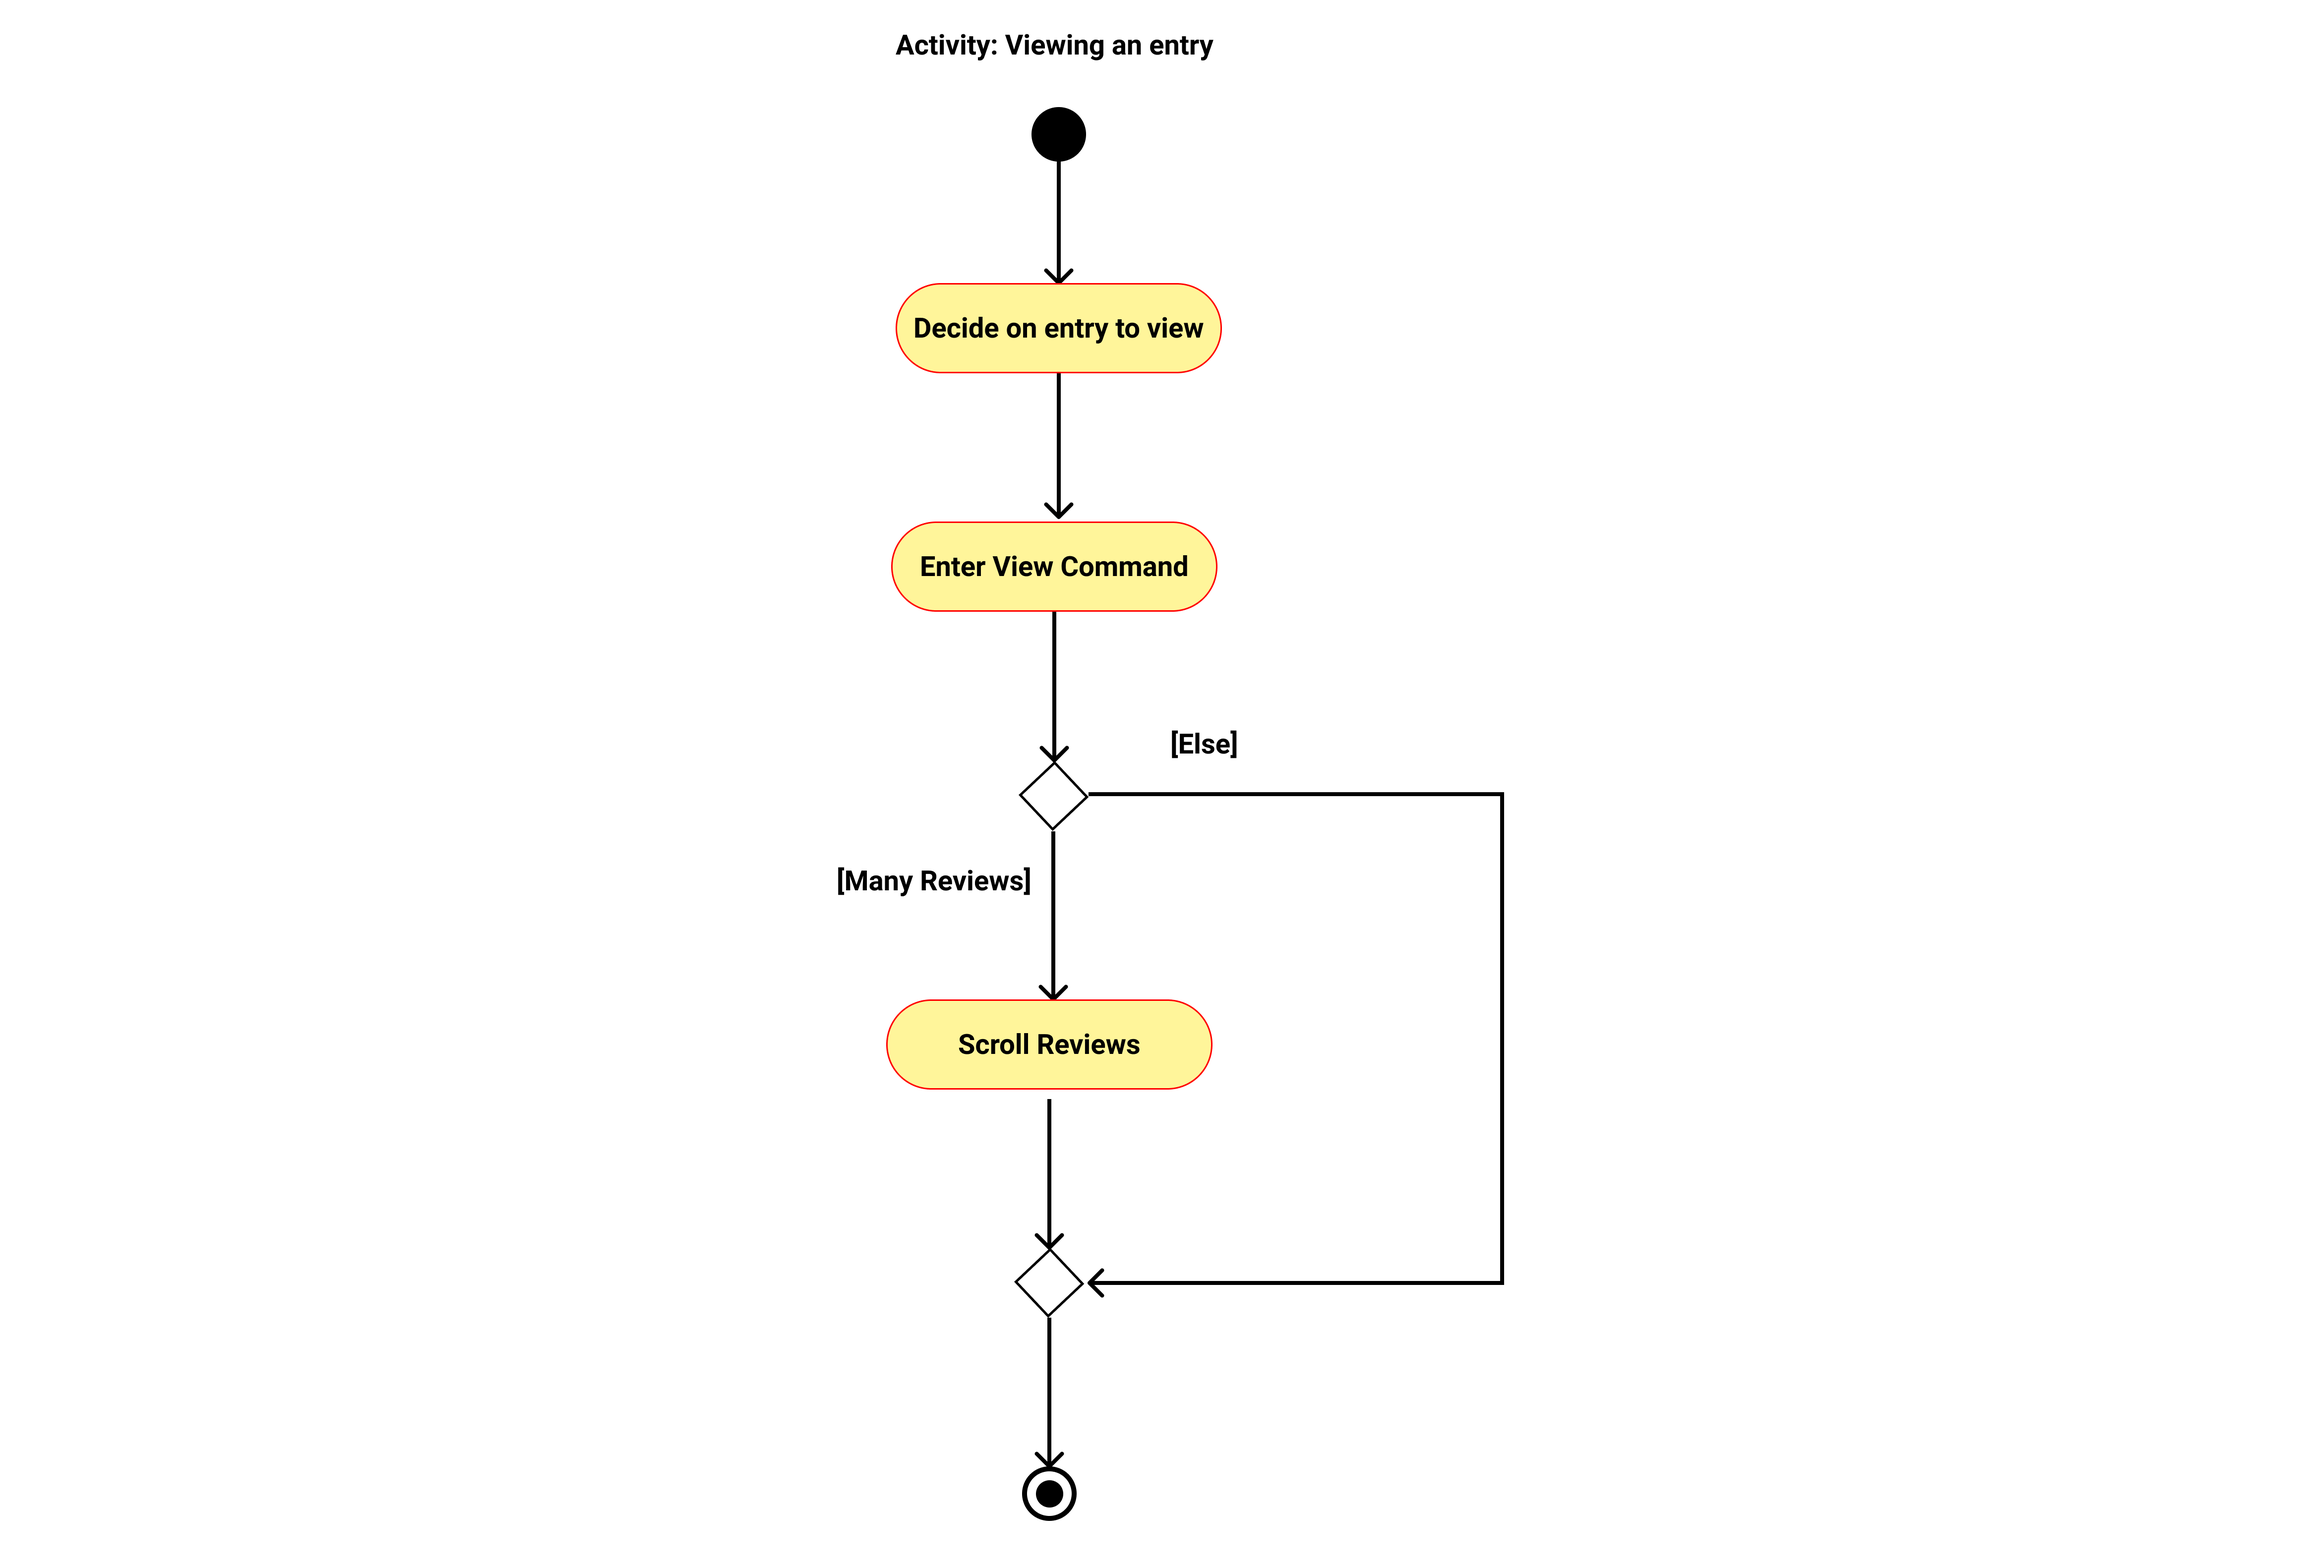
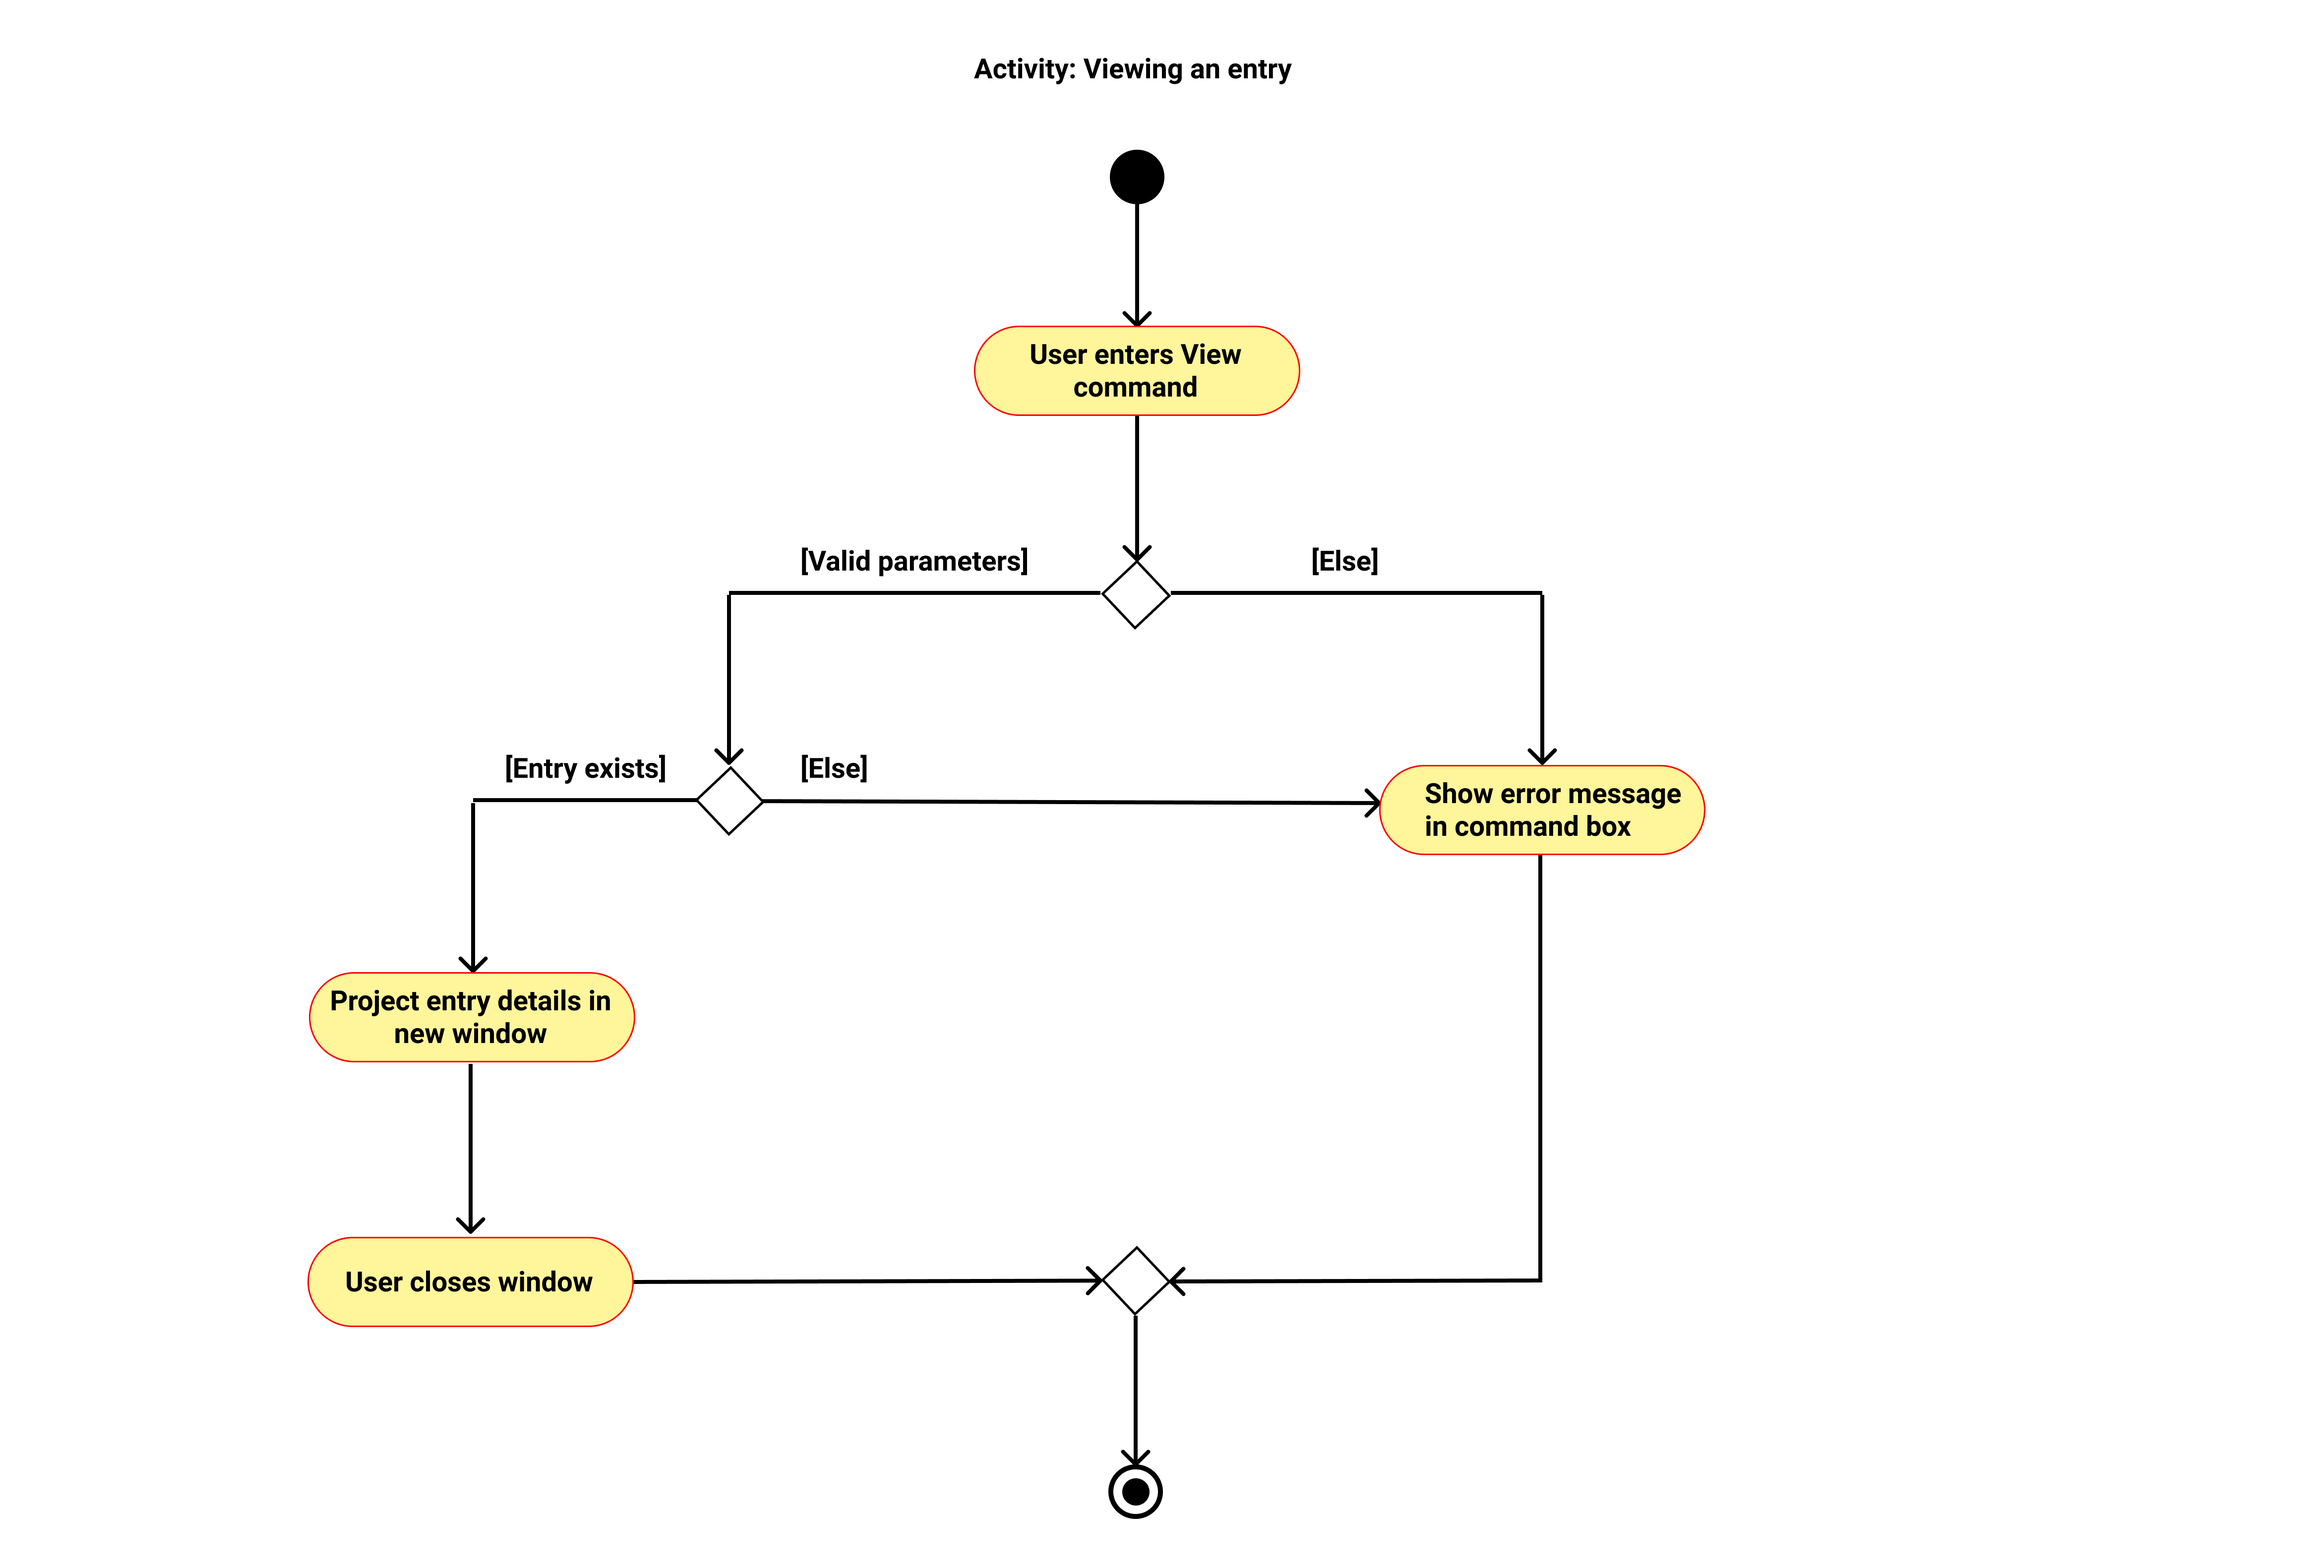
Add Clear use case, edit user stories for view, update view sequence and activity diagram

diff --git a/docs/DeveloperGuide.md b/docs/DeveloperGuide.md
@@ -132,9 +132,17 @@ command:
 
 
 ### View Feature
-#### Implementation
-The View feature allows the user to view a specified entry in a new window, allowing the user to carefully look through
-all the details of an entry.
+View: Allows the user to view a specified entry in a new window, allowing the user to carefully look through
+all the details of an entry. This feature is mainly used to read lengthy food reviews which cannot be shown on the Main UI window. - `view`
+
+The view feature is facilitated by:
+1. `Entry` class. `Entry` objects represent the specific entry to be viewed in a new window.
+2. `Command` class.   
+
+Given below is an example usage scenario:
+
+Step 1. The user launches THe Food Diary application. Data will be loaded from the storage to the application memory. 
+The `FoodDiary` 
 
 The mechanism works in such a way where after the user enters a command in the UI, the command will be passed into
  `MainWindow#executeCommand()`, in which `Logic#execute()` will be called to parse the user input in
@@ -145,7 +153,7 @@ The mechanism works in such a way where after the user enters a command in the U
 The following sequence diagram shows how the View feature works:
 ![View Sequence Diagram](images/ViewSequenceDiagram.png)
 
-The following activity diagram summarizes what happens when a user executes a view command:
+The following activity diagram summarizes what happens when a user executes the `view` command:
 ![View Activity Diagram](images/ViewActivityDiagram.png)
 
 
@@ -190,13 +198,10 @@ Priorities: High (must have) - `* * *`, Medium (nice to have) - `* *`, Low (unli
 | `* * *` | User who would like to create custom category of food place      | Add the category of the place                    | I can have a specific view of certain places                           |
 | `* * *` | User who does not want to visit a place again                    | Remove the place                                 | reduce redundant food places in my list                           |
 | `* * *` | User who wants to remember food ratings | Give a rating on the overall food experience | I can gauge/ballpark the satisfaction level I get against other food experiences           |
-| `* * *` | User deciding to revisit a place | Expand all the reviews of an entry | Read all the reviews in a glance           |
+| `* * *` | User who wants to read lengthy reviews of an entry | Glance through reviews of an entry | Quickly arrive at a conclusion for a food place|
 | `* *`   | User frequently revisiting a place                          | Add multiple reviews to a single place           | Store all my food experiences with the place   |
 | `* *`   | User who wants to eat good food at an affordable price           | Search for places that match both the rating and price that I want | visit the best food places without overspending
 | `* * *`   | User who made a mistake in an entry           | Perform revisions and updates to the entry | keep accurate and up-to-date information of food places
-
-
-*{More to be added}*
 
 ### Use cases
 
@@ -329,6 +334,8 @@ Priorities: High (must have) - `* * *`, Medium (nice to have) - `* *`, Low (unli
 * 1a. Food diary detects invalid command from user.
     * 1a1. Food Diary warns user about wrong syntax.
     * 1a2. User enters correct syntax.
+      
+      Use case resumes from step 2.
 
 * 2a. No entry found
     * 2a1. Food Diary tells user that no entry was found.
@@ -371,6 +378,7 @@ Priorities: High (must have) - `* * *`, Medium (nice to have) - `* *`, Low (unli
       Use case ends.
     
 **UC10: Exit**
+
 **MSS**
 1. User exits.
 2. Food Diary closes and data is saved.
@@ -382,6 +390,19 @@ Priorities: High (must have) - `* * *`, Medium (nice to have) - `* *`, Low (unli
 
       Use case ends.
 
+**UC11: Clear**
+
+**MSS**
+1. User requests to clear all entries.
+2. Food Diary clears all entries.
+
+**Extensions**:
+* 1a. Food diary detects invalid command from user.
+    * 1a1. Food Diary warns user about wrong syntax.
+    * 1a2. User enters correct syntax.
+
+      Use case resumes from step 2.
+    
 
 
 ### Non-Functional Requirements
